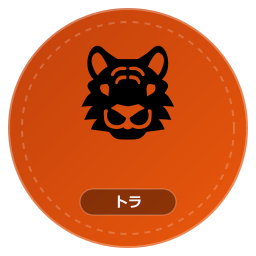
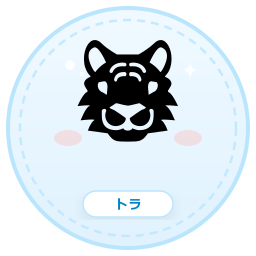
style: 動物アイコンをちいかわ・サンリオ風のゆるかわパステルポップテイストに刷新

diff --git a/scripts/generate-animal-icons.js b/scripts/generate-animal-icons.js
@@ -2,23 +2,37 @@ const fs = require('fs');
 const path = require('path');
 const sharp = require('sharp');
 
+// 10代〜30代前半に刺さる「ちいかわ・サンリオ風のゆるかわパステルポップ」
+// グループ別パステル・ミルクカラー定義:
+// - 分析家 (INTP/INTJ/ENTP/ENTJ): 淡いラベンダーパープル
+// - 外交官 (INFP/INFJ/ENFP/ENFJ): ふんわりミントグリーン
+// - 番人 (ISTP/ISTJ/ESTP/ESTJ): やさしいベビーブルー
+// - 探検家 (ISFP/ISFJ/ESFP/ESFJ): あたたかみのあるクリームイエロー/シェルピンク
+
 const animals = [
-  { type: 'INTP', label: 'フクロウ', emoji: '🦉', color1: '#4338CA', color2: '#6D28D9' },
-  { type: 'INTJ', label: 'ワシ', emoji: '🦅', color1: '#3730A3', color2: '#5B21B6' },
-  { type: 'ENTP', label: 'キツネ', emoji: '🦊', color1: '#4F46E5', color2: '#7C3AED' },
-  { type: 'ENTJ', label: 'ライオン', emoji: '🦁', color1: '#312E81', color2: '#4C1D95' },
-  { type: 'INFP', label: 'ウサギ', emoji: '🐰', color1: '#047857', color2: '#059669' },
-  { type: 'INFJ', label: 'シカ', emoji: '🦌', color1: '#065F46', color2: '#047857' },
-  { type: 'ENFP', label: 'イルカ', emoji: '🐬', color1: '#0D9488', color2: '#14B8A6' },
-  { type: 'ENFJ', label: 'ペンギン', emoji: '🐧', color1: '#0F766E', color2: '#0D9488' },
-  { type: 'ISTP', label: 'タカ', emoji: '🦅', color1: '#B45309', color2: '#D97706' },
-  { type: 'ISTJ', label: 'カメ', emoji: '🐢', color1: '#0369A1', color2: '#0284C7' },
-  { type: 'ESTP', label: 'トラ', emoji: '🐯', color1: '#C2410C', color2: '#EA580C' },
-  { type: 'ESTJ', label: 'ウシ', emoji: '🐮', color1: '#1E40AF', color2: '#2563EB' },
-  { type: 'ISFP', label: 'ネコ', emoji: '🐱', color1: '#D97706', color2: '#F59E0B' },
-  { type: 'ISFJ', label: 'クマ', emoji: '🐻', color1: '#0284C7', color2: '#38BDF8' },
-  { type: 'ESFP', label: 'オウム', emoji: '🦜', color1: '#E11D48', color2: '#F43F5E' },
-  { type: 'ESFJ', label: 'イヌ', emoji: '🐶', color1: '#2563EB', color2: '#60A5FA' }
+  // 分析家 (淡いラベンダーパープル)
+  { type: 'INTP', label: 'フクロウ', emoji: '🦉', bg1: '#F5EEFF', bg2: '#E5D4F8', border: '#D3BAF0', badgeBg: '#FFFFFF', badgeText: '#7C5295' },
+  { type: 'INTJ', label: 'ワシ', emoji: '🦅', bg1: '#F3ECFE', bg2: '#E2D0FA', border: '#D0B6F0', badgeBg: '#FFFFFF', badgeText: '#764B93' },
+  { type: 'ENTP', label: 'キツネ', emoji: '🦊', bg1: '#F7EFFE', bg2: '#E8D7FB', border: '#D7BEF4', badgeBg: '#FFFFFF', badgeText: '#7F569B' },
+  { type: 'ENTJ', label: 'ライオン', emoji: '🦁', bg1: '#F1E8FD', bg2: '#DDC9F7', border: '#CDB0ED', badgeBg: '#FFFFFF', badgeText: '#6F438D' },
+
+  // 外交官 (ふんわりミントグリーン)
+  { type: 'INFP', label: 'ウサギ', emoji: '🐰', bg1: '#F0FDF4', bg2: '#DCFCE7', border: '#BBF7D0', badgeBg: '#FFFFFF', badgeText: '#15803D' },
+  { type: 'INFJ', label: 'シカ', emoji: '🦌', bg1: '#F2FDF8', bg2: '#D5FBE9', border: '#A7F3D0', badgeBg: '#FFFFFF', badgeText: '#047857' },
+  { type: 'ENFP', label: 'イルカ', emoji: '🐬', bg1: '#F0FDFA', bg2: '#CCFBF1', border: '#99F6E4', badgeBg: '#FFFFFF', badgeText: '#0F766E' },
+  { type: 'ENFJ', label: 'ペンギン', emoji: '🐧', bg1: '#ECFDF5', bg2: '#D1FAE5', border: '#A7F3D0', badgeBg: '#FFFFFF', badgeText: '#065F46' },
+
+  // 番人 (やさしいベビーブルー)
+  { type: 'ISTP', label: 'タカ', emoji: '🦅', bg1: '#F0F9FF', bg2: '#E0F2FE', border: '#BAE6FD', badgeBg: '#FFFFFF', badgeText: '#0369A1' },
+  { type: 'ISTJ', label: 'カメ', emoji: '🐢', bg1: '#EFF6FF', bg2: '#DBEAFE', border: '#BFDBFE', badgeBg: '#FFFFFF', badgeText: '#1D4ED8' },
+  { type: 'ESTP', label: 'トラ', emoji: '🐯', bg1: '#F0F9FF', bg2: '#E0F2FE', border: '#BAE6FD', badgeBg: '#FFFFFF', badgeText: '#0284C7' },
+  { type: 'ESTJ', label: 'ウシ', emoji: '🐮', bg1: '#F1F5F9', bg2: '#E2E8F0', border: '#CBD5E1', badgeBg: '#FFFFFF', badgeText: '#334155' },
+
+  // 探検家 (あたたかみのあるクリームイエロー / シェルピンク)
+  { type: 'ISFP', label: 'ネコ', emoji: '🐱', bg1: '#FFFBEB', bg2: '#FEF3C7', border: '#FDE68A', badgeBg: '#FFFFFF', badgeText: '#B45309' },
+  { type: 'ISFJ', label: 'クマ', emoji: '🐻', bg1: '#FFF7ED', bg2: '#FFEDD5', border: '#FED7AA', badgeBg: '#FFFFFF', badgeText: '#C2410C' },
+  { type: 'ESFP', label: 'オウム', emoji: '🦜', bg1: '#FFF1F2', bg2: '#FFE4E6', border: '#FECDD3', badgeBg: '#FFFFFF', badgeText: '#BE123C' },
+  { type: 'ESFJ', label: 'イヌ', emoji: '🐶', bg1: '#FFF5F5', bg2: '#FED7D7', border: '#FEB2B2', badgeBg: '#FFFFFF', badgeText: '#9B2C2C' }
 ];
 
 async function generate() {
@@ -29,27 +43,42 @@ async function generate() {
     const svg = `
       <svg width="256" height="256" viewBox="0 0 256 256" xmlns="http://www.w3.org/2000/svg">
         <defs>
-          <linearGradient id="grad-${item.type}" x1="0%" y1="0%" x2="100%" y2="100%">
-            <stop offset="0%" stop-color="${item.color1}" />
-            <stop offset="100%" stop-color="${item.color2}" />
+          <!-- ゆるふわパステルグラデーション -->
+          <linearGradient id="grad-${item.type}" x1="0%" y1="0%" x2="0%" y2="100%">
+            <stop offset="0%" stop-color="${item.bg1}" />
+            <stop offset="100%" stop-color="${item.bg2}" />
           </linearGradient>
+
+          <!-- ぷっくりやわらかいソフトシャドウ -->
+          <filter id="soft-shadow" x="-10%" y="-10%" width="120%" height="120%">
+            <feDropShadow dx="0" dy="4" stdDeviation="6" flood-color="#000000" flood-opacity="0.08" />
+          </filter>
         </defs>
         
-        <!-- Outer Circle / Card Background -->
-        <circle cx="128" cy="128" r="120" fill="url(#grad-${item.type})" stroke="rgba(255,255,255,0.3)" stroke-width="4" />
+        <!-- 背景ベース丸 (パステルカラー & 丸み) -->
+        <circle cx="128" cy="128" r="120" fill="url(#grad-${item.type})" stroke="${item.border}" stroke-width="4" />
         
-        <!-- Inner Decorative Ring -->
-        <circle cx="128" cy="128" r="106" fill="none" stroke="rgba(255,255,255,0.2)" stroke-width="2" stroke-dasharray="6 6" />
+        <!-- かわいいステッチ・点線リング (サンリオ・ちいかわテイスト) -->
+        <circle cx="128" cy="128" r="108" fill="none" stroke="${item.border}" stroke-width="2.5" stroke-dasharray="8 6" opacity="0.8" />
         
-        <!-- Large Animal Emoji Icon (アイコン真中心に配置) -->
-        <text x="128" y="127" font-size="96" text-anchor="middle" dominant-baseline="central">
+        <!-- かわいいキラキラハイライト (左上・右上) -->
+        <circle cx="70" cy="65" r="5" fill="#FFFFFF" opacity="0.9" />
+        <circle cx="82" cy="74" r="2.5" fill="#FFFFFF" opacity="0.8" />
+        <path d="M190 60 Q190 70 200 70 Q190 70 190 80 Q190 70 180 70 Q190 70 190 60 Z" fill="#FFFFFF" opacity="0.8" />
+
+        <!-- ほんのりピンクのほっぺチーク（愛嬌アップ） -->
+        <ellipse cx="68" cy="138" rx="14" ry="8" fill="#FFB7B2" opacity="0.35" />
+        <ellipse cx="188" cy="138" rx="14" ry="8" fill="#FFB7B2" opacity="0.35" />
+
+        <!-- 中央の動物絵文字（真中心・上下左右センター・特大サイズ104px） -->
+        <text x="128" y="128" font-size="104" text-anchor="middle" dominant-baseline="central">
           ${item.emoji}
         </text>
         
-        <!-- Animal Label Badge (下部の動物名ラベルを維持) -->
-        <g transform="translate(128, 202)">
-          <rect x="-48" y="-13" width="96" height="26" rx="13" fill="rgba(0,0,0,0.38)" stroke="rgba(255,255,255,0.25)" stroke-width="1.2" />
-          <text x="0" y="5" font-family="'Hiragino Sans', 'Meiryo', 'Yu Gothic', sans-serif" font-size="14" font-weight="bold" fill="#F1F5F9" text-anchor="middle">
+        <!-- ゆるかわ下部ラベルバッジ（マシュマロ・もっちりピルバッジ） -->
+        <g transform="translate(128, 204)" filter="url(#soft-shadow)">
+          <rect x="-45" y="-13" width="90" height="26" rx="13" fill="${item.badgeBg}" stroke="${item.border}" stroke-width="1.5" />
+          <text x="0" y="5" font-family="'Hiragino Maru Gothic ProN', 'Rounded Mplus 1c', 'Meiryo', sans-serif" font-size="13" font-weight="900" fill="${item.badgeText}" text-anchor="middle" letter-spacing="1">
             ${item.label}
           </text>
         </g>
@@ -63,8 +92,8 @@ async function generate() {
 }
 
 generate()
-  .then(() => console.log('Successfully regenerated all 16 animal icon images!'))
+  .then(() => console.log('Successfully generated all 16 pastel-pop animal icon images!'))
   .catch((err) => {
-    console.error('Error generating animal icons:', err);
+    console.error('Error generating pastel-pop animal icons:', err);
     process.exit(1);
   });
